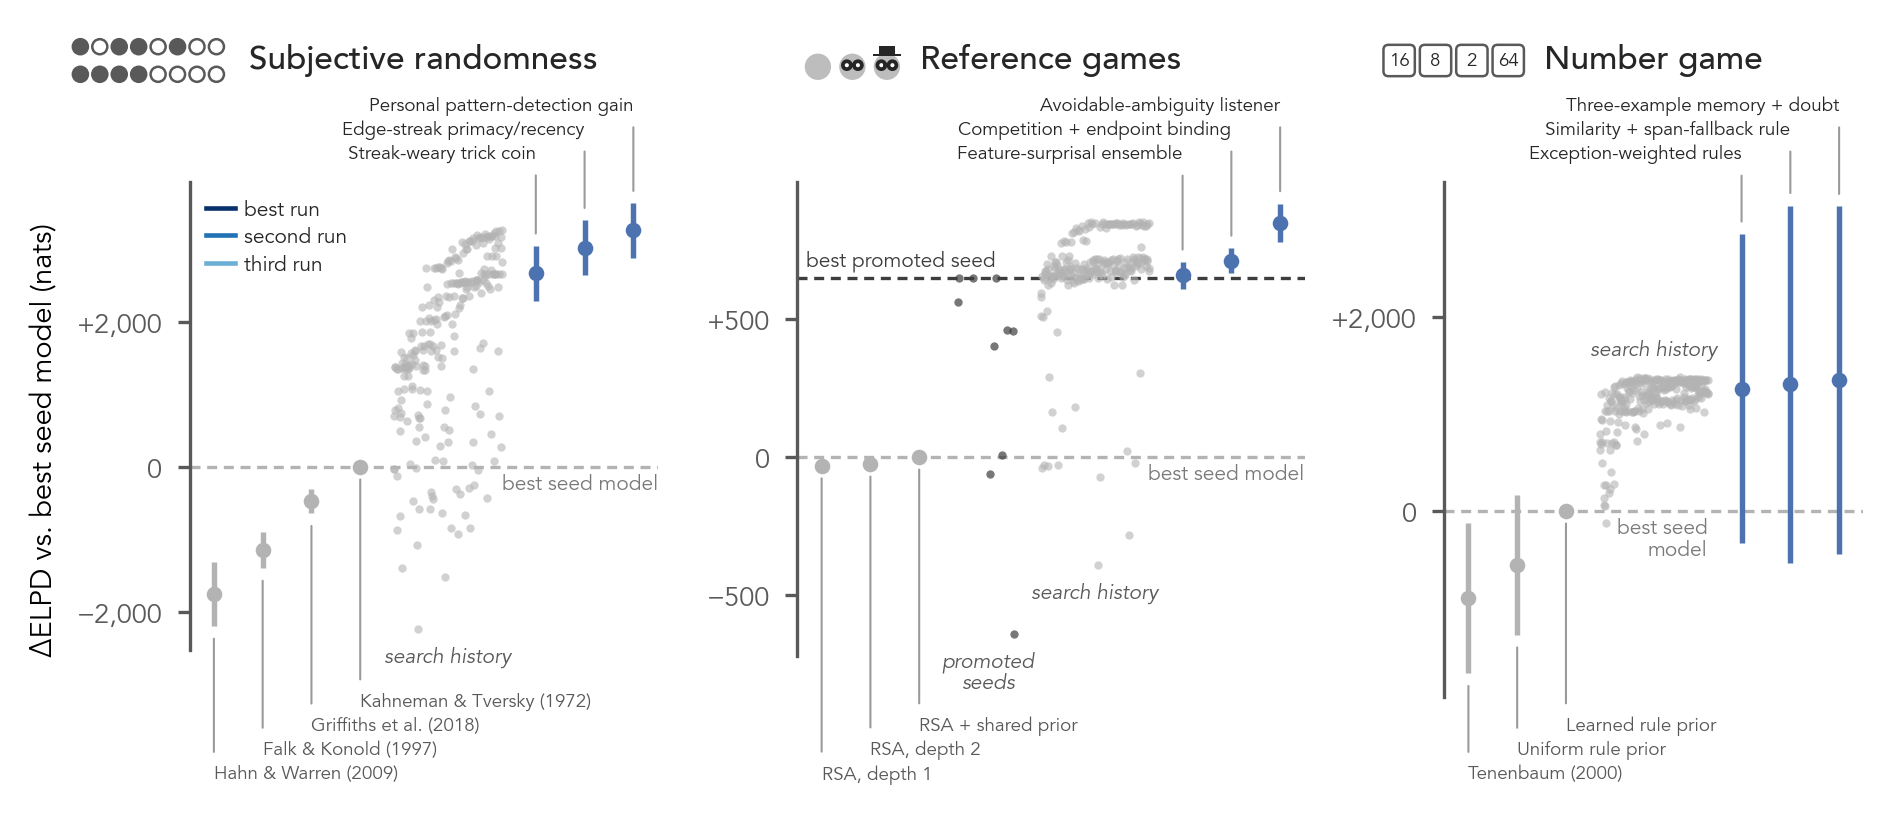
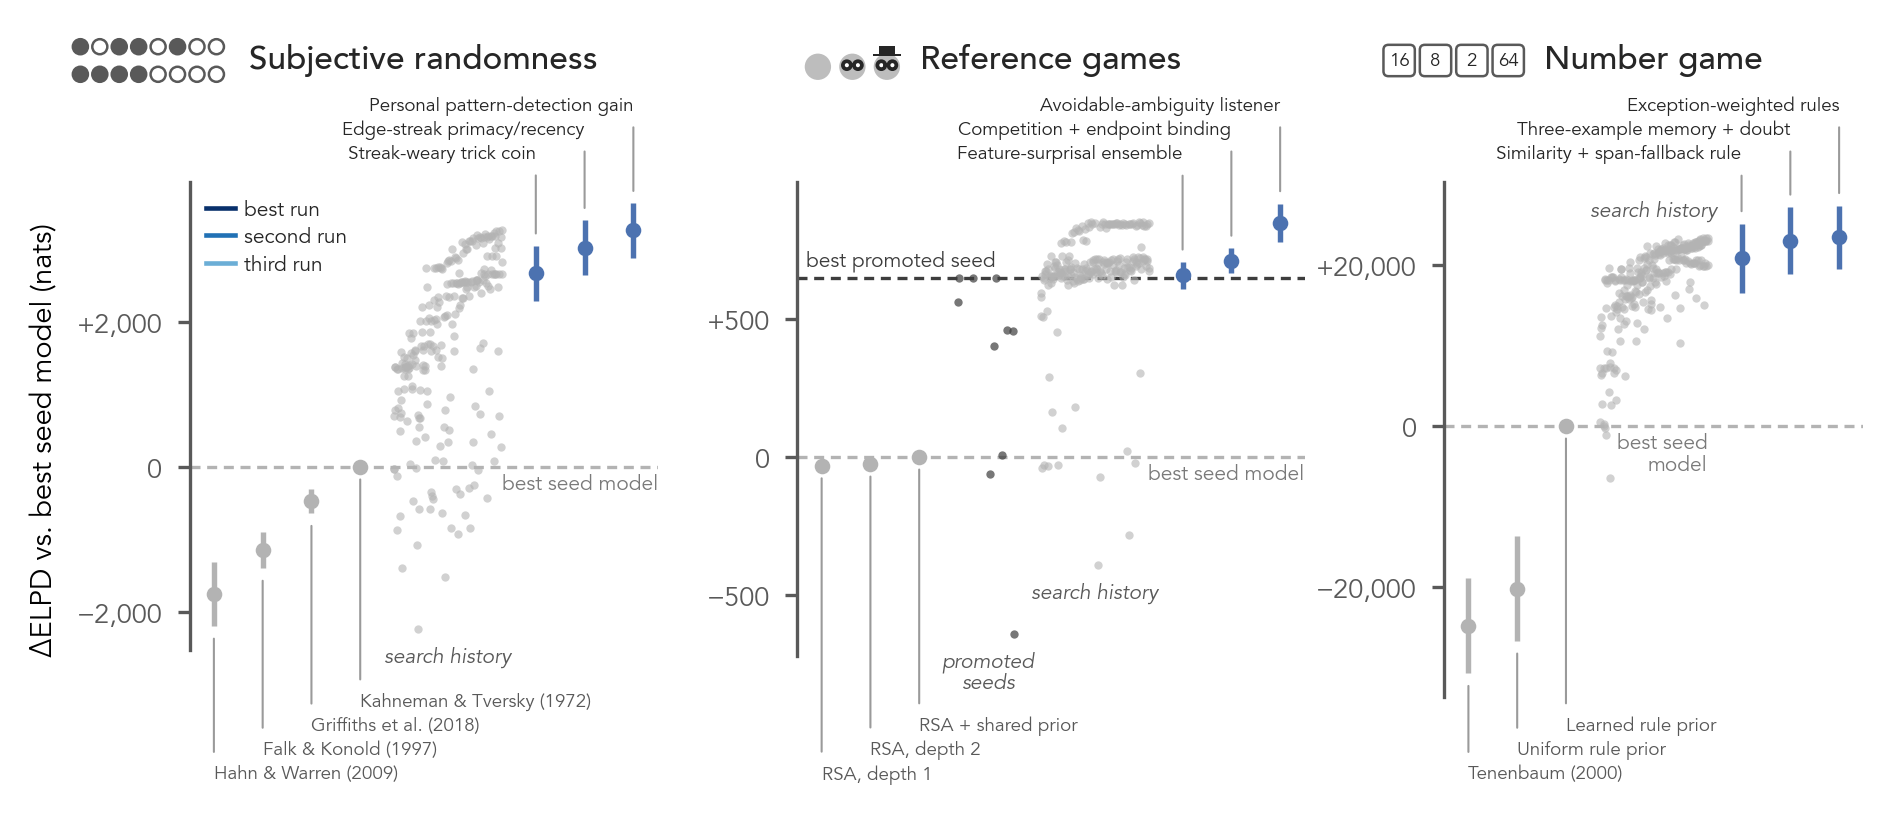
Figure 2 draft: number game scored on the held-out (set, target) items
249,862 responses whose item no run drew (unseen_items); --ng-unseen-sets draws the stricter
held-out example sets instead.

diff --git a/data/paper/work/fig2_draft/fig2_draft.py b/data/paper/work/fig2_draft/fig2_draft.py
@@ -156,7 +156,7 @@ def incumbent_paths(domain, data):
 # --- drawing -----------------------------------------------------------------
 
 BY_RUN = False
-NG_TEST_SET = "unseen_example_sets"  # or "unseen_items" (--ng-unseen-items)
+NG_TEST_SET = "unseen_items"  # the (set, target) items no run drew; or "unseen_example_sets" (--ng-unseen-sets)
 RUN_COLORS = ["#08306b", "#2171b5", "#6baed6"]  # a panel's runs by their best model, best (darkest) first
 WIDTH = {"winner": 1.0, "seed": 1.0, "nonwinning": 2.6, "promoted": 1.8}
 CAPTION_ABOVE = {"number_game"}  # its strip reaches the zero line, its winners cross it: captions moved
@@ -350,5 +350,5 @@ def main():
 if __name__ == "__main__":
     import sys
     BY_RUN = "--by-run" in sys.argv
-    NG_TEST_SET = "unseen_items" if "--ng-unseen-items" in sys.argv else NG_TEST_SET
+    NG_TEST_SET = "unseen_example_sets" if "--ng-unseen-sets" in sys.argv else NG_TEST_SET
     main()
